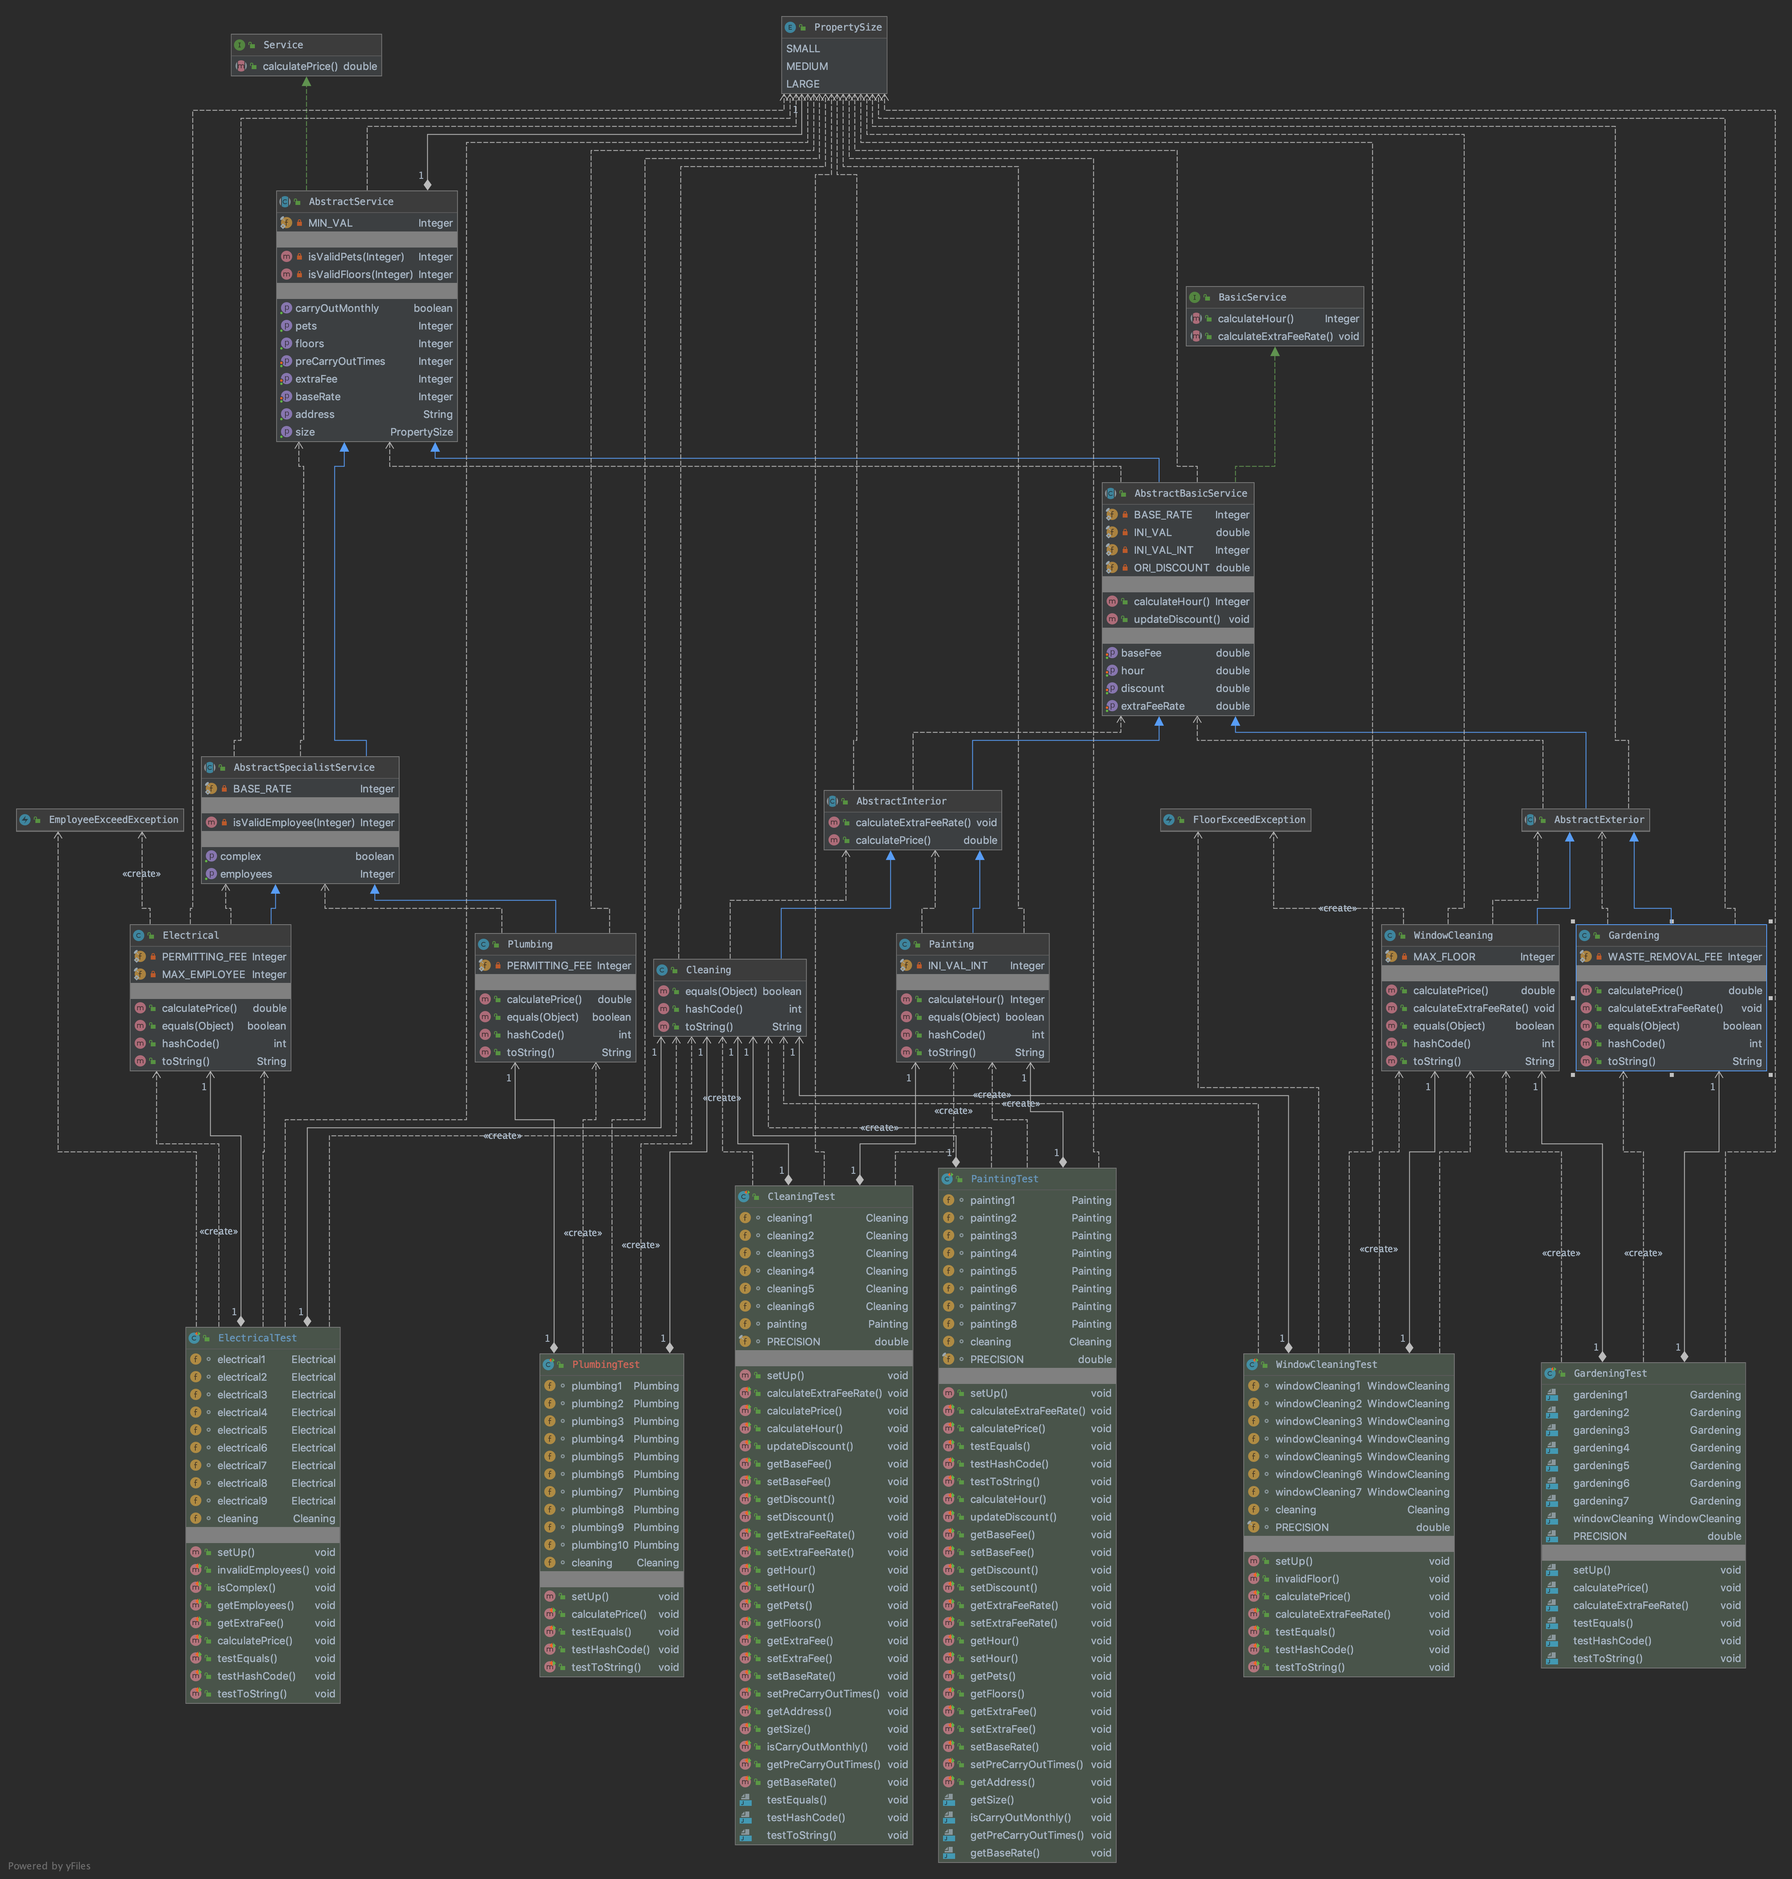
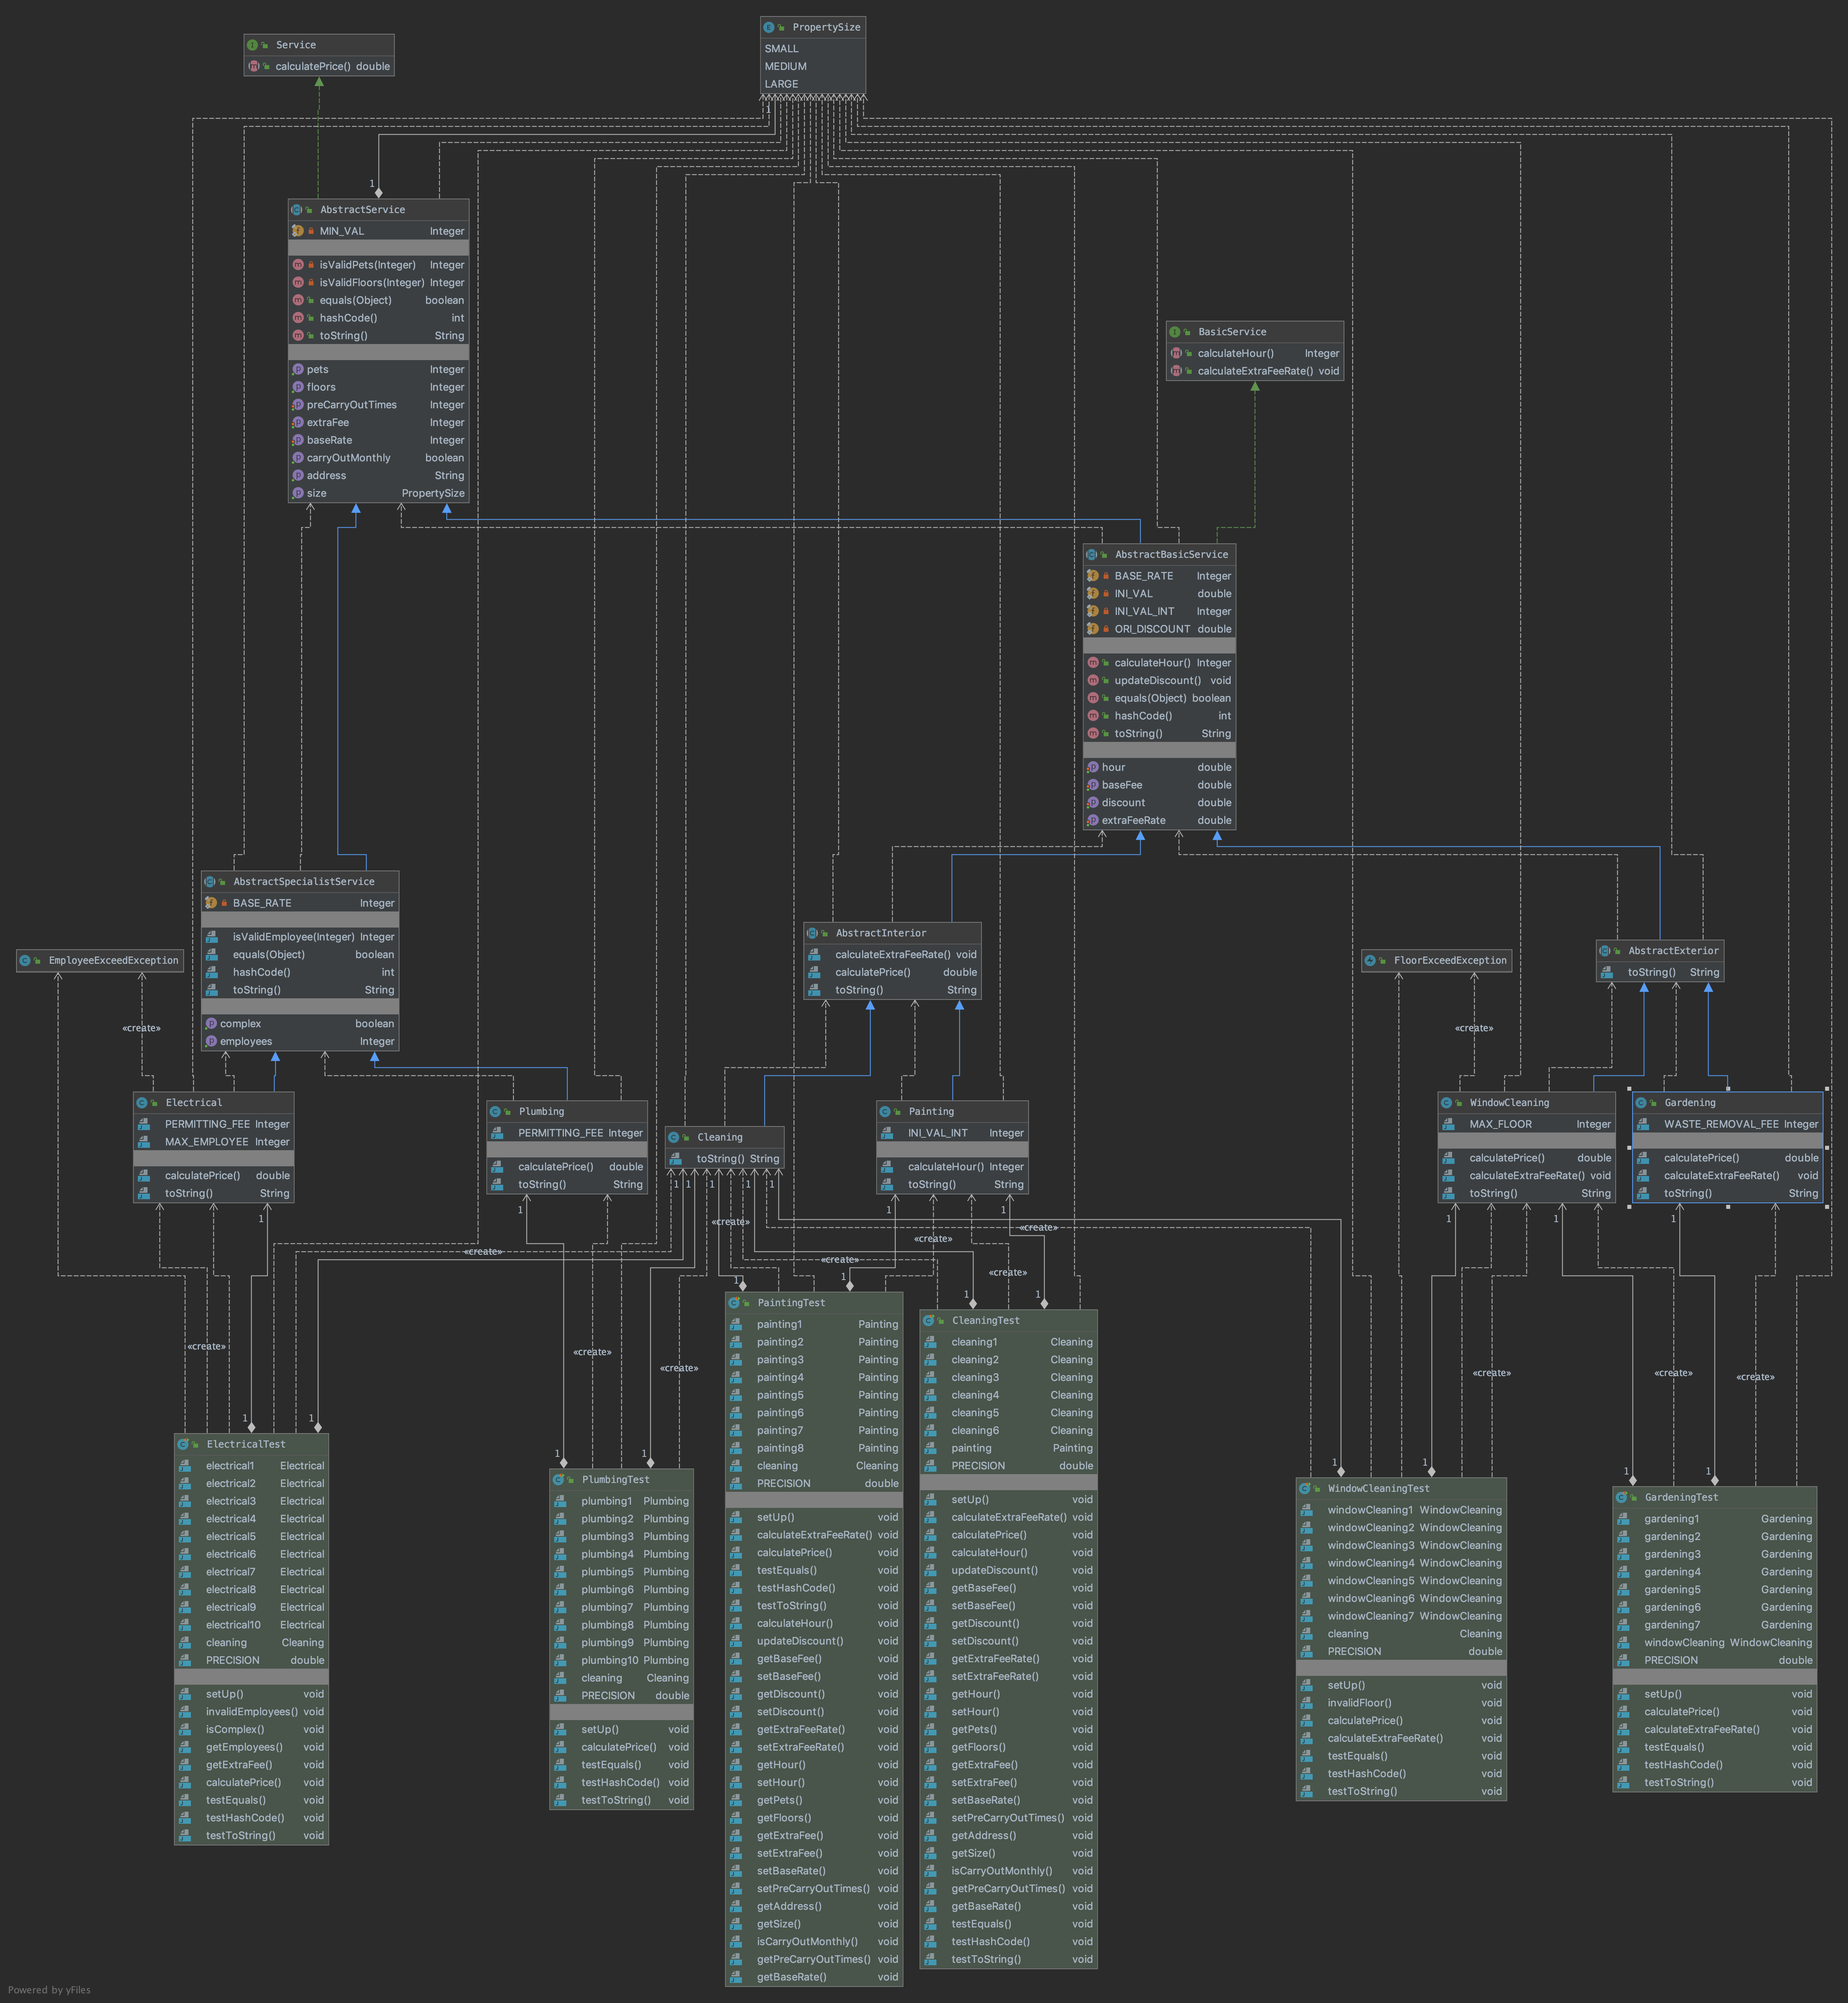
delete equals

diff --git a/Assignment3/src/main/java/problem1/AbstractInterior.java b/Assignment3/src/main/java/problem1/AbstractInterior.java
@@ -30,12 +30,15 @@ public abstract class AbstractInterior extends AbstractBasicService {
   public void calculateExtraFeeRate() {
     final double LESS_FEE_RATE = 0.05;
     final double MORE_FEE_RATE = 0.07;
+    final int ZERO = 0;
+    final int ONE = 1;
+    final int TWO = 2;
 
-    switch (this.getPets()) {
-      case 0:
+    switch ((int)this.getPets()) {
+      case ZERO:
         break;
-      case 1:
-      case 2:
+      case ONE:
+      case TWO:
         this.setExtraFeeRate(LESS_FEE_RATE);
         break;
       default:
@@ -53,16 +56,6 @@ public abstract class AbstractInterior extends AbstractBasicService {
     this.updateDiscount();
     return (this.getBaseRate() * this.getHour() * (1 + this.getExtraFeeRate())) * this
         .getDiscount();
-  }
-
-  @Override
-  public boolean equals(Object o) {
-    return super.equals(o);
-  }
-
-  @Override
-  public int hashCode() {
-    return super.hashCode();
   }
 
   @Override

diff --git a/Assignment3/src/main/java/problem1/AbstractExterior.java b/Assignment3/src/main/java/problem1/AbstractExterior.java
@@ -22,16 +22,6 @@ public abstract class AbstractExterior extends AbstractBasicService {
   }
 
   @Override
-  public boolean equals(Object o) {
-    return super.equals(o);
-  }
-
-  @Override
-  public int hashCode() {
-    return super.hashCode();
-  }
-
-  @Override
   public String toString() {
     return "Exterior {" + super.toString() + "}";
   }

diff --git a/Assignment3/src/main/java/problem1/Electrical.java b/Assignment3/src/main/java/problem1/Electrical.java
@@ -43,16 +43,6 @@ public class Electrical extends AbstractSpecialistService {
   }
 
   @Override
-  public boolean equals(Object o) {
-    return super.equals(o);
-  }
-
-  @Override
-  public int hashCode() {
-    return super.hashCode();
-  }
-
-  @Override
   public String toString() {
     return "Electrical {" + super.toString() + "}";
   }

diff --git a/Assignment3/src/main/java/problem1/WindowCleaning.java b/Assignment3/src/main/java/problem1/WindowCleaning.java
@@ -53,16 +53,6 @@ public class WindowCleaning extends AbstractExterior {
   }
 
   @Override
-  public boolean equals(Object o) {
-    return super.equals(o);
-  }
-
-  @Override
-  public int hashCode() {
-    return super.hashCode();
-  }
-
-  @Override
   public String toString() {
     return "Window Cleaning {" + super.toString() + "}";
   }

diff --git a/Assignment3/src/main/java/problem1/Plumbing.java b/Assignment3/src/main/java/problem1/Plumbing.java
@@ -37,16 +37,6 @@ public class Plumbing extends AbstractSpecialistService {
   }
 
   @Override
-  public boolean equals(Object o) {
-    return super.equals(o);
-  }
-
-  @Override
-  public int hashCode() {
-    return super.hashCode();
-  }
-
-  @Override
   public String toString() {
     return "Plumbing {" + super.toString() + "}";
   }

diff --git a/Assignment3/src/main/java/problem1/Gardening.java b/Assignment3/src/main/java/problem1/Gardening.java
@@ -44,16 +44,6 @@ public class Gardening extends AbstractExterior {
   }
 
   @Override
-  public boolean equals(Object o) {
-    return super.equals(o);
-  }
-
-  @Override
-  public int hashCode() {
-    return super.hashCode();
-  }
-
-  @Override
   public String toString() {
     return "Gardening {" + super.toString() + "}";
   }

diff --git a/Assignment3/src/main/java/problem1/Cleaning.java b/Assignment3/src/main/java/problem1/Cleaning.java
@@ -22,16 +22,6 @@ public class Cleaning extends AbstractInterior {
   }
 
   @Override
-  public boolean equals(Object o) {
-    return super.equals(o);
-  }
-
-  @Override
-  public int hashCode() {
-    return super.hashCode();
-  }
-
-  @Override
   public String toString() {
     return "Cleaning {" + super.toString() + "}";
   }

diff --git a/Assignment3/src/main/java/problem1/Painting.java b/Assignment3/src/main/java/problem1/Painting.java
@@ -47,16 +47,6 @@ public class Painting extends AbstractInterior {
   }
 
   @Override
-  public boolean equals(Object o) {
-    return super.equals(o);
-  }
-
-  @Override
-  public int hashCode() {
-    return super.hashCode();
-  }
-
-  @Override
   public String toString() {
     return "Painting {" + super.toString() + "}";
   }
